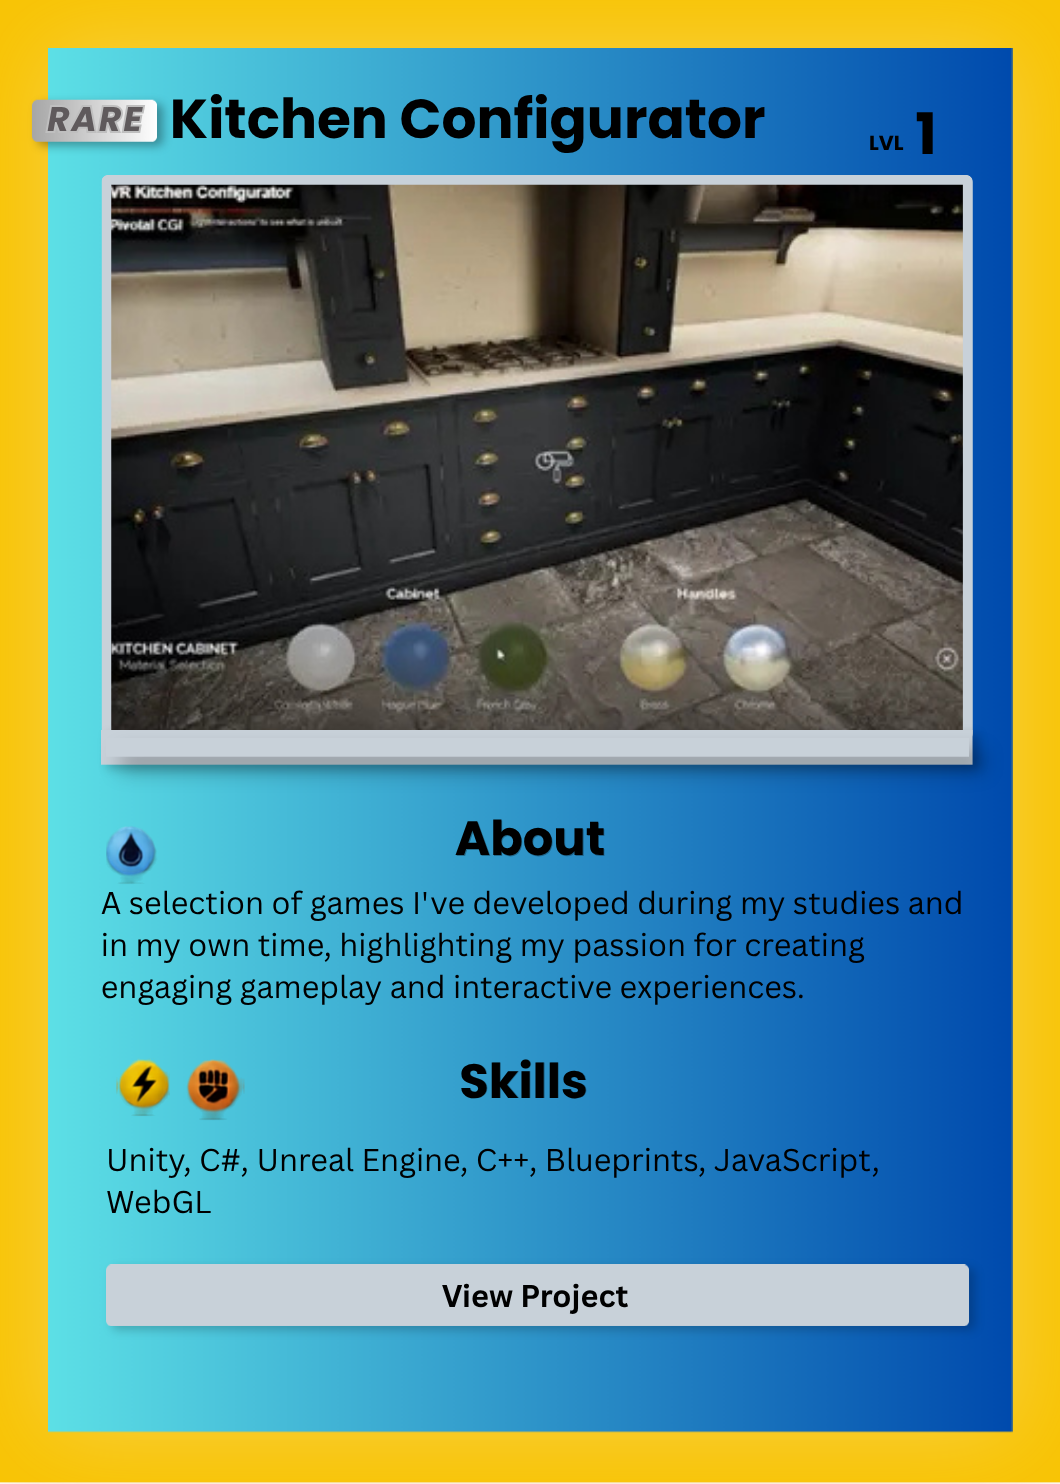
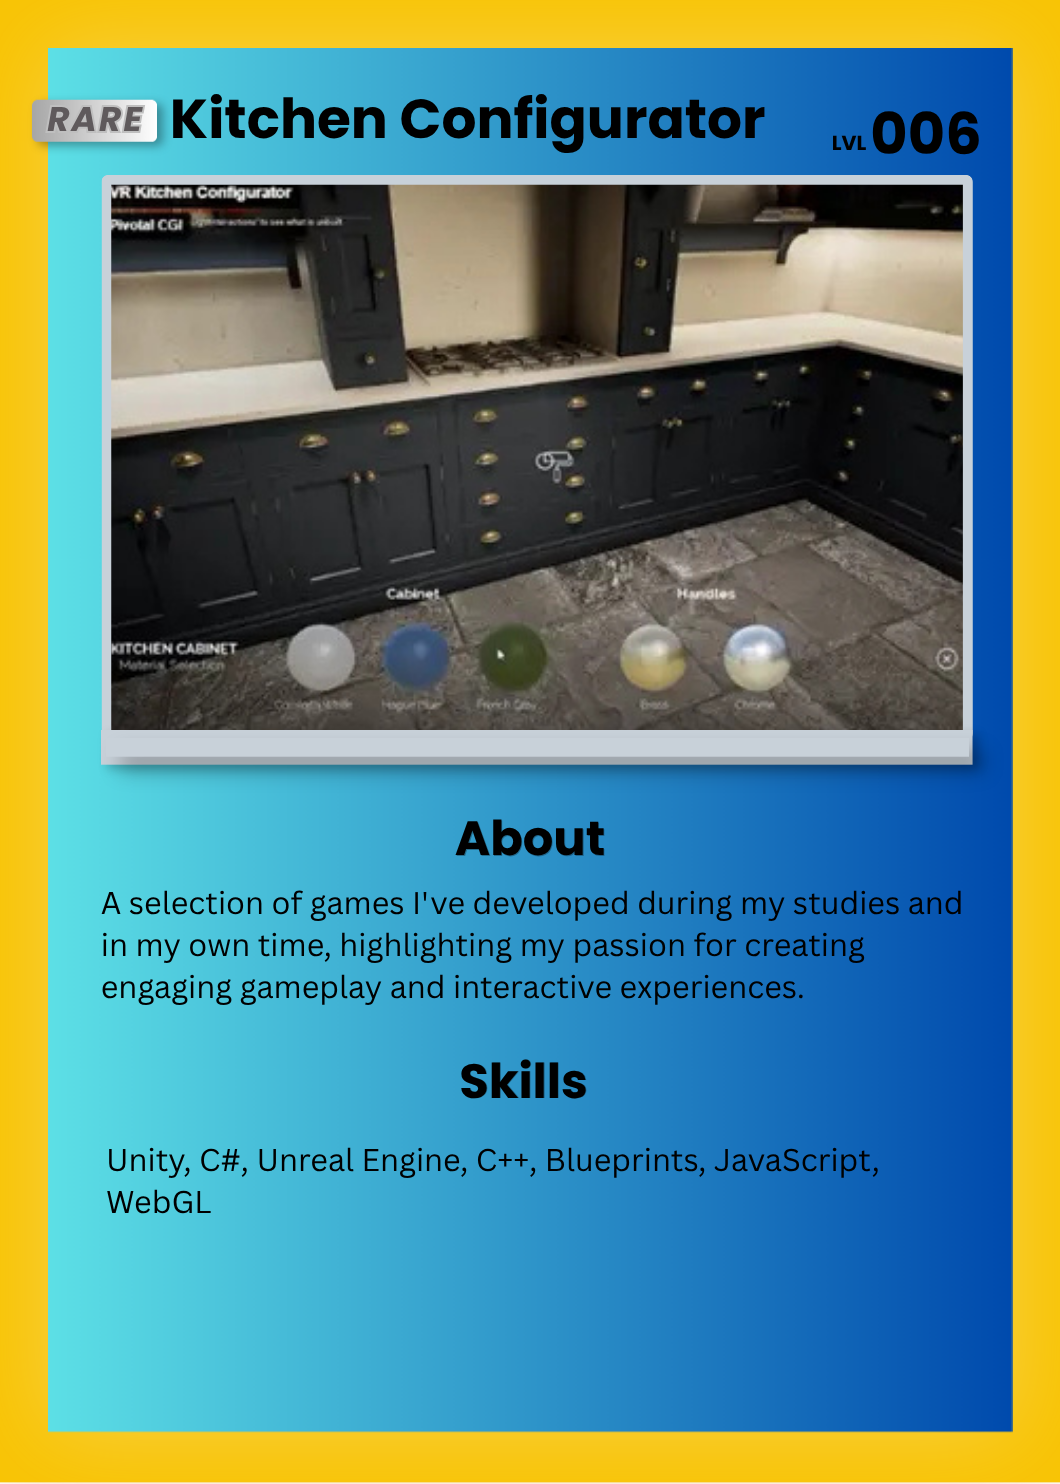
Cards

diff --git a/src/index.css b/src/index.css
@@ -390,7 +390,7 @@ button {
 
 .interface {
   position: absolute;
-  bottom: max(100px, env(safe-area-inset-bottom));
+  bottom: max(24px, env(safe-area-inset-bottom));
 
   left: 50%;
   z-index: 3;
@@ -439,7 +439,7 @@ button {
 
 .replay-button--image img {
   display: block;
-  width: 50px;
+  width: 35px;
   /* change this to whatever size you want */
   height: auto;
   user-select: none;
